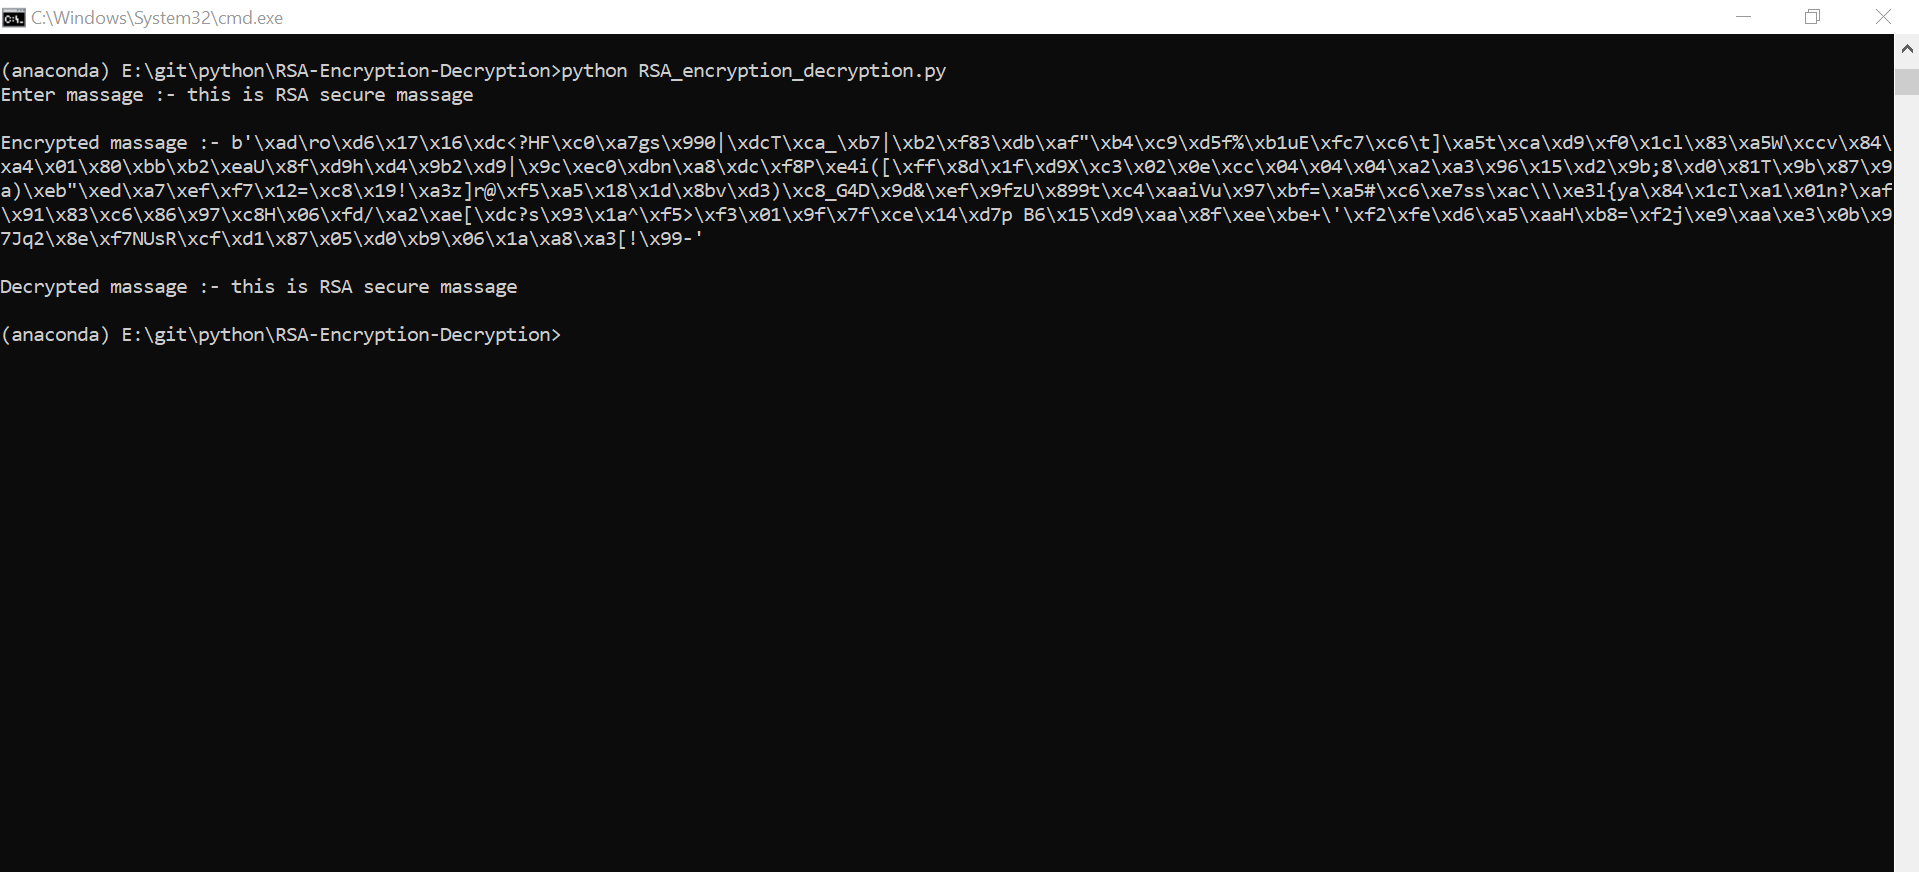
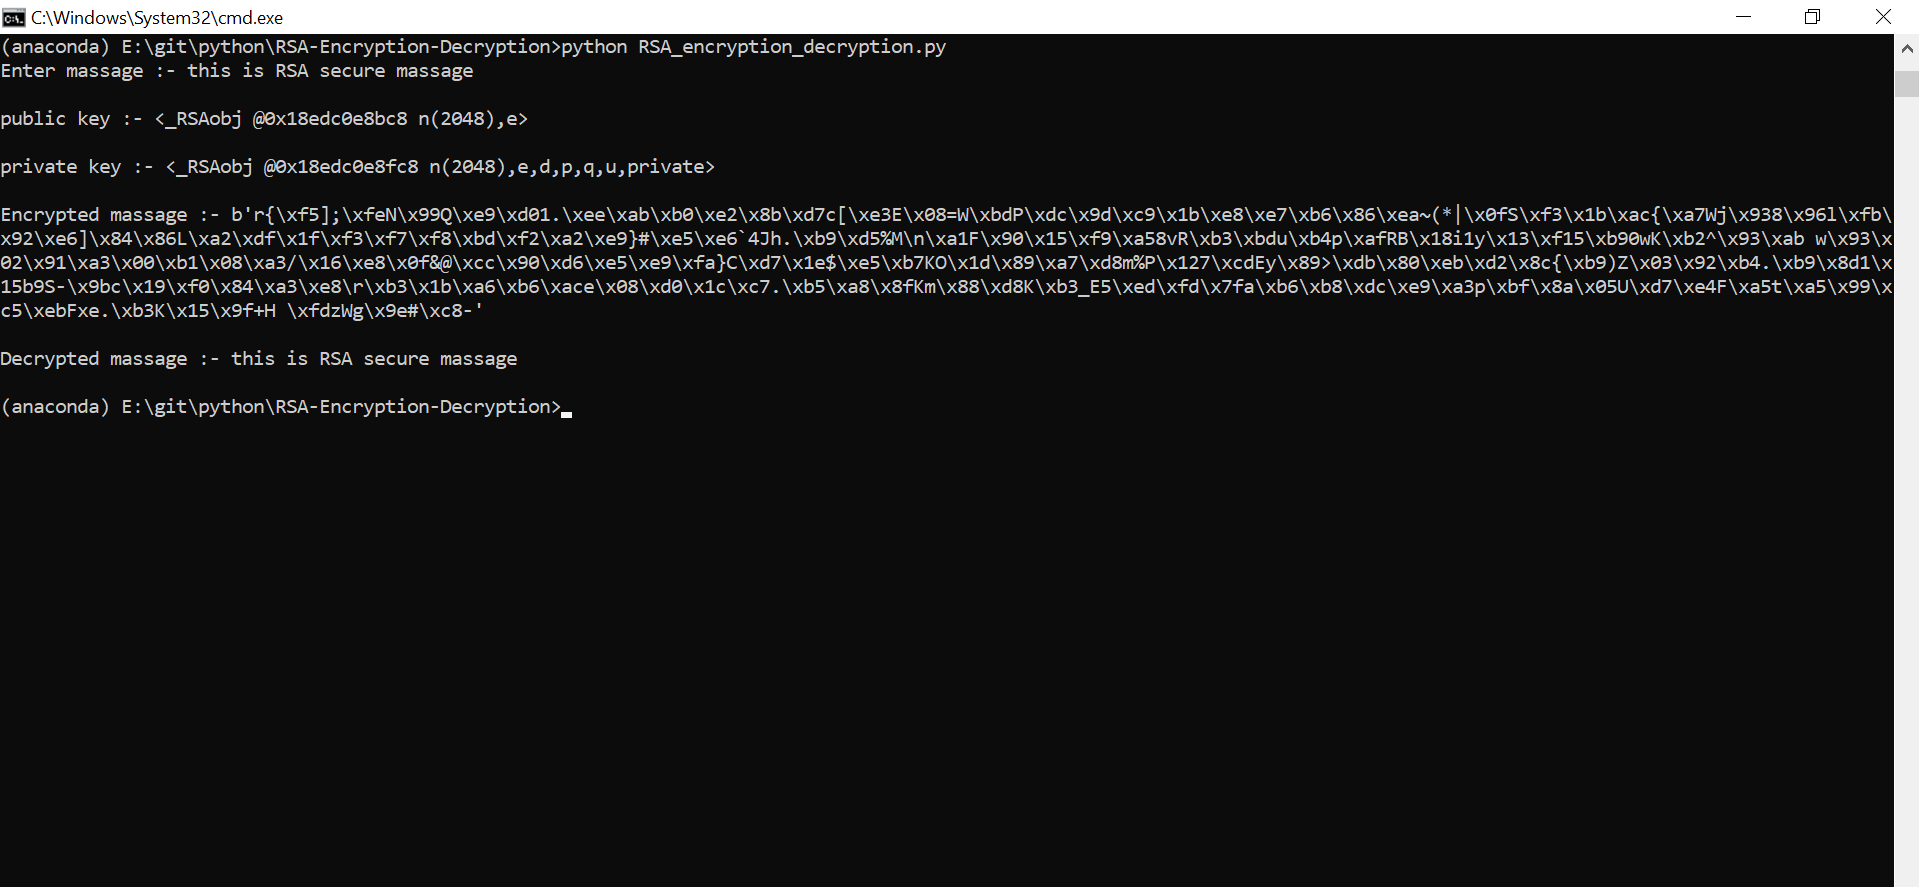
Initial commit

Changed region(s): [[0.0, 0.0, 0.9838, 0.4644]]

diff --git a/RSA_encryption_decryption.py b/RSA_encryption_decryption.py
@@ -25,6 +25,8 @@ def decrypt(cipher_text, priv_key):
 
 public_key, private_key = generate_new_keys(2048)
 massage = input('Enter massage :- ')
+print("\n"+"public key :- "+str(public_key))
+print("\n"+"private key :- "+str(private_key))
 encrypt_msg = encrypt(massage, public_key)
 decrypt(encrypt_msg, private_key)
 
